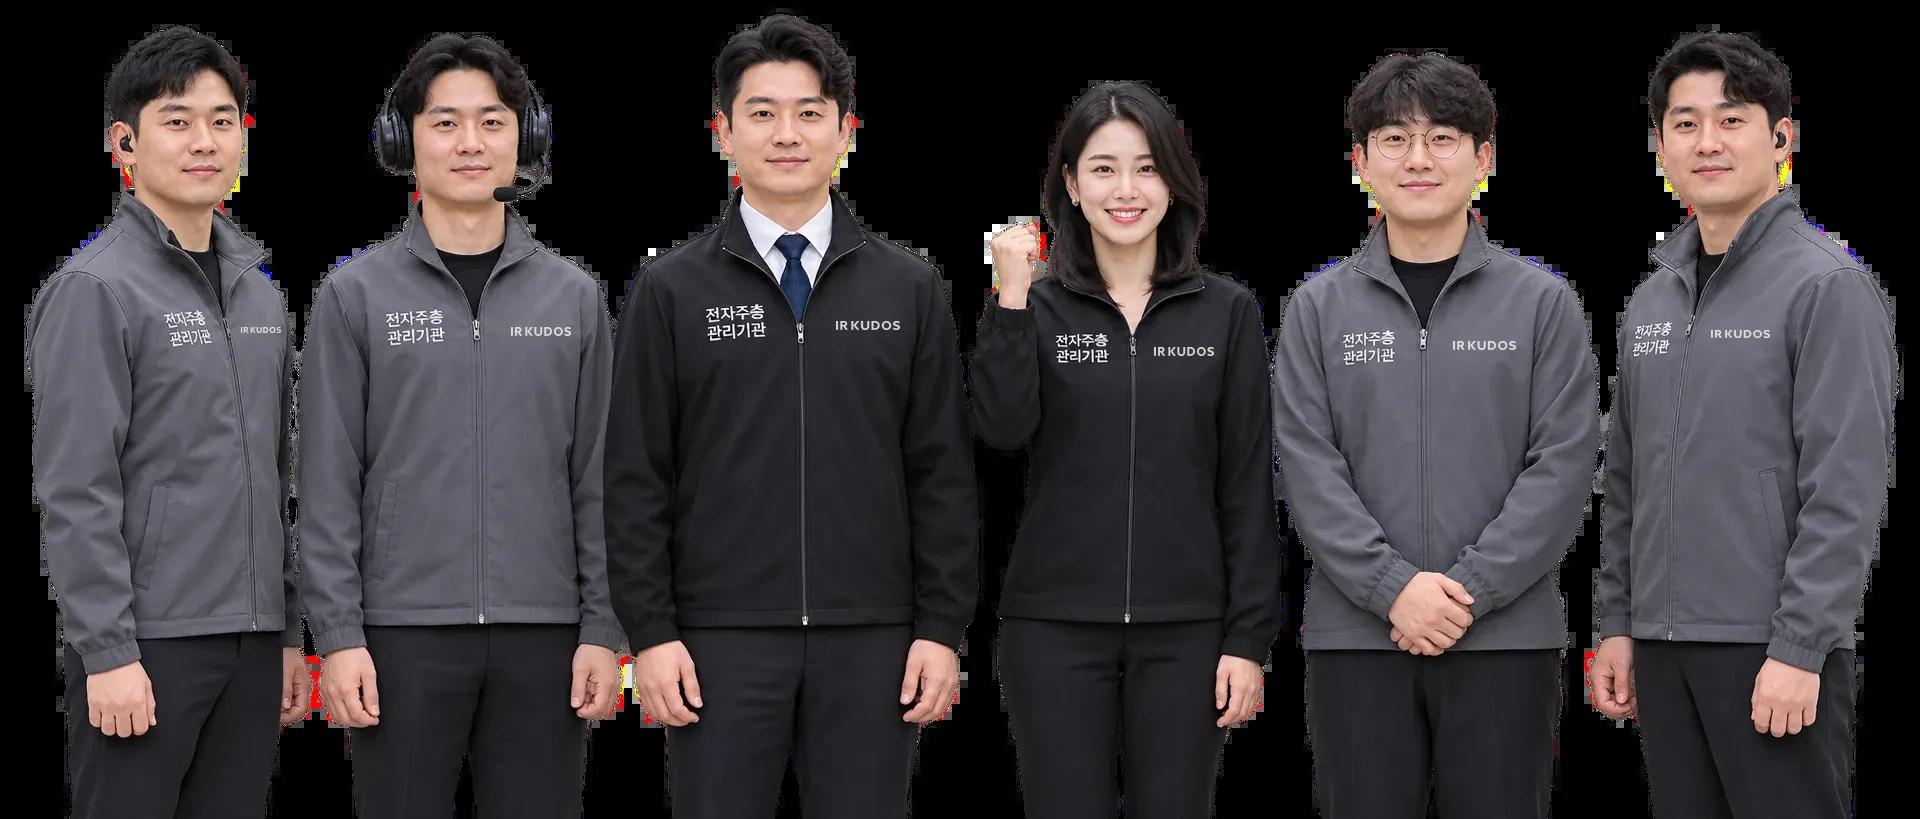
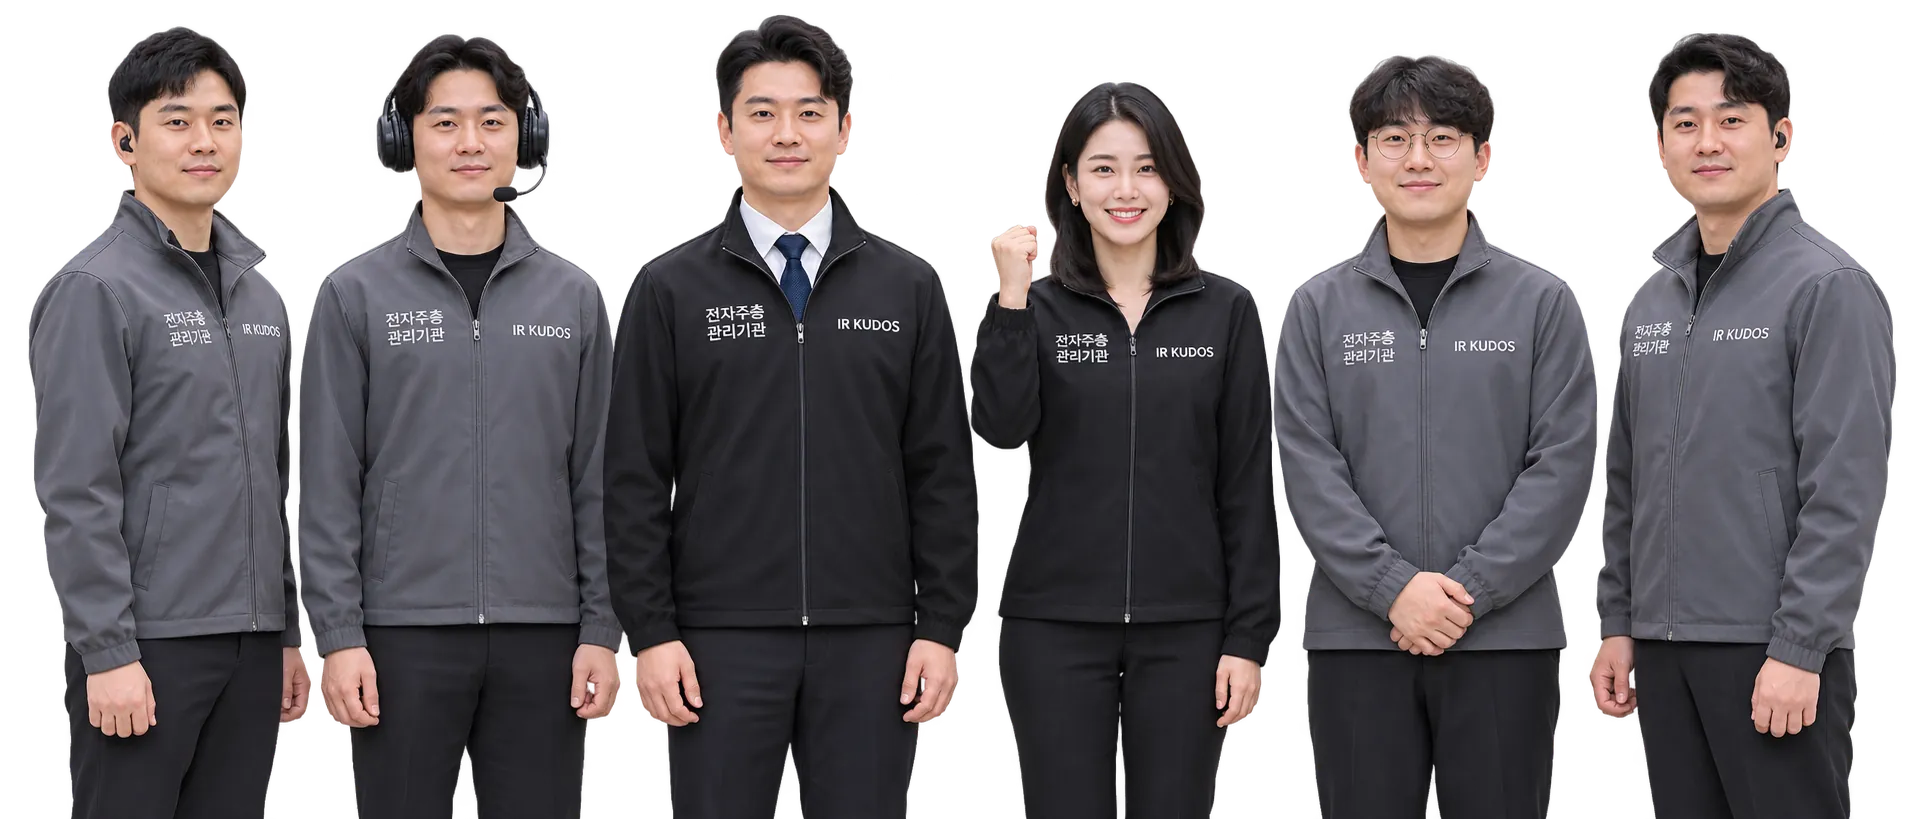
session4 K20: IR KUDOS를 워드마크로. 운영팀 사진(team.webp) 재킷 워드마크 변경 되돌림
Claude-Session: https://claude.ai/code/session_01Mn7NmyW5iujmmHnaRBFKBZ

diff --git a/session4.html b/session4.html
@@ -1669,7 +1669,7 @@ html,body,body *{touch-action:none;-webkit-touch-callout:none;-webkit-user-selec
 
 
 <section class="s ch" id="K20" data-t="Powered by IR KUDOS" data-dim=".42">
- <div class="chap" style="align-items:center;text-align:center"><p class="fu" style="--i:0;margin:0;font:600 220px/1 'Pretendard Variable';color:#F2F5FA;letter-spacing:-.02em;white-space:nowrap"><span style="font-weight:500">Powered by</span> IR KUDOS</p></div>
+ <div class="chap" style="align-items:center;text-align:center"><p class="fu k20p" style="--i:0;margin:0;font:500 220px/1 'Pretendard Variable';color:#F2F5FA;letter-spacing:-.02em;white-space:nowrap;display:flex;align-items:baseline;gap:70px"><span>Powered by</span><img src="assets/irk-wordmark-white.svg" alt="IR KUDOS" style="height:160px;width:auto"></p></div>
 </section>
 
 <!-- ═════════ 5. A to Z ═════════ -->
